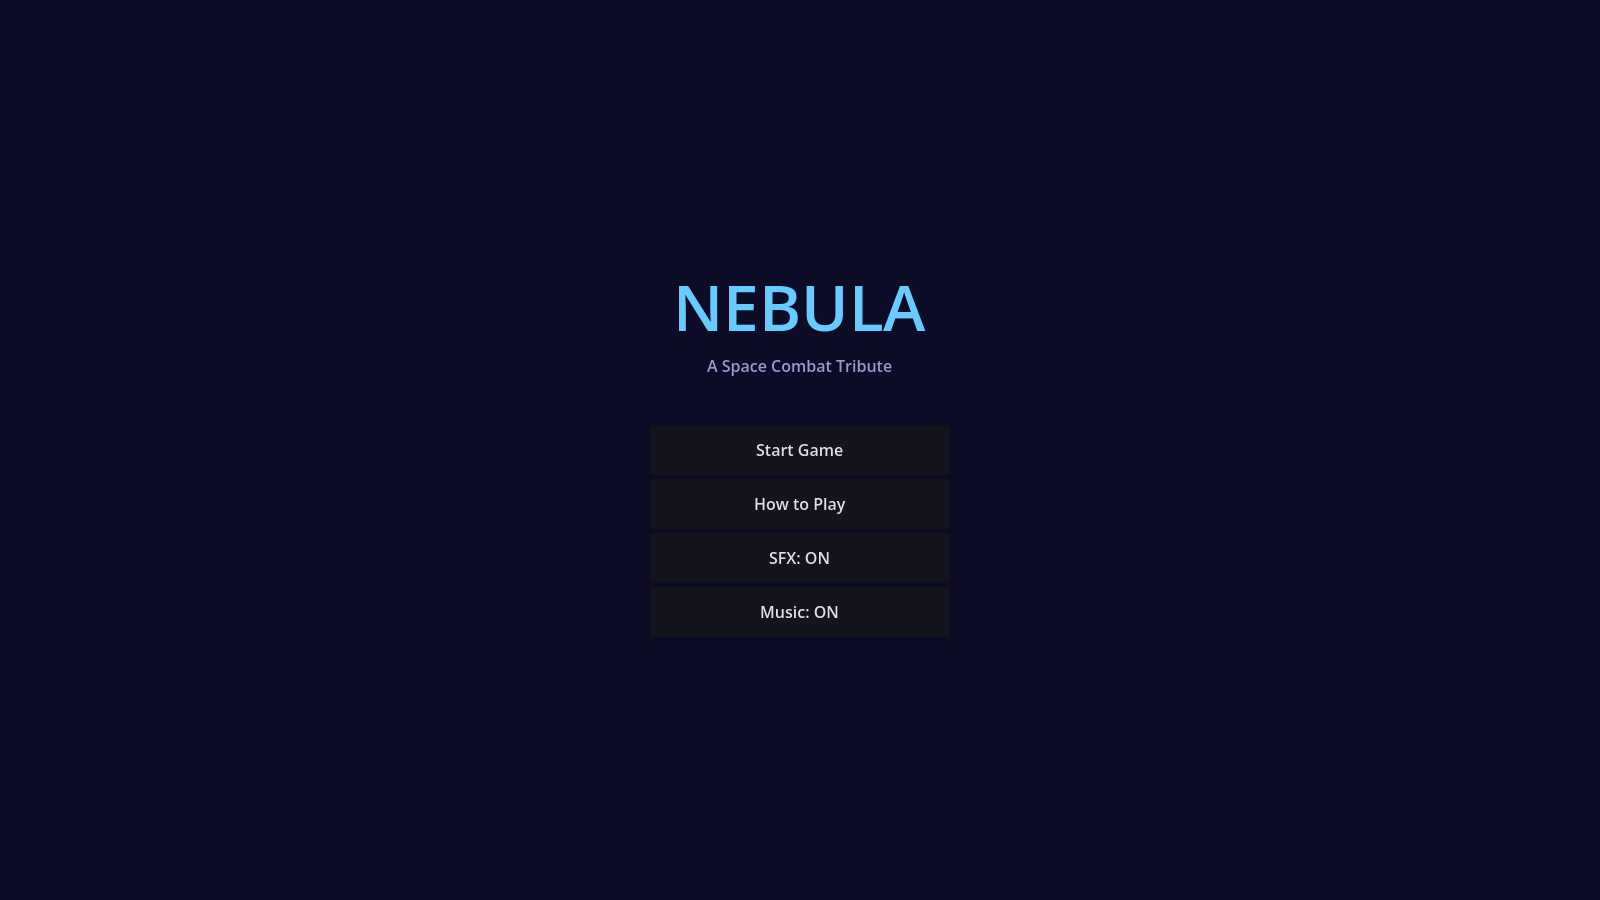
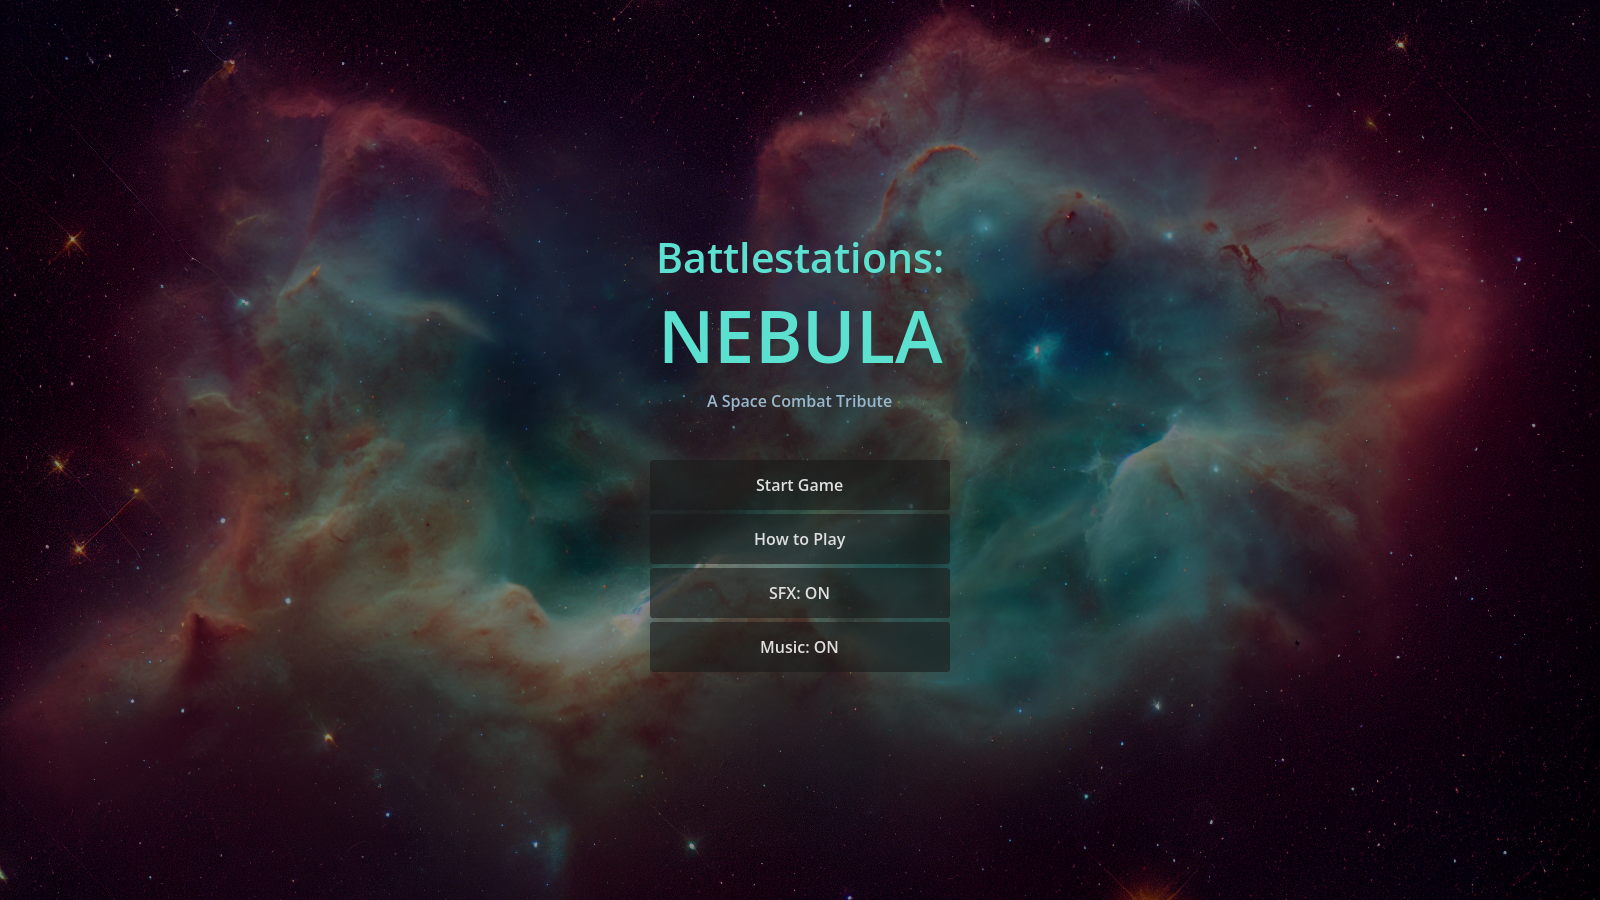
Complete step I3-7: Visual sanity pass and screenshot regen

diff --git a/docs/checklist.md b/docs/checklist.md
@@ -241,7 +241,7 @@ Source asset: `assets/backgrounds/nebula.jpg` (5333×3555, downloaded from Envat
   Acceptance: All scene files use the new palette. `docs/color-scheme.md` is rewritten and accurate. Game still readable in every scene. Hit/damage indicators still register as warnings.
   Verify: Run the game. Walk through every scene. Confirm the new palette feels intentional alongside the nebula (not arbitrarily swapped) and nothing reads as broken or invisible.
 
-- [ ] **I3-7. Visual sanity pass, tuning, and screenshot regeneration**
+- [x] **I3-7. Visual sanity pass, tuning, and screenshot regeneration**
   Spec ref: New — judgment call after the visual changes land
   What to build: Play through a full game with the nebula + new palette + two-line title + placement colors all in place. Identify and fix any of: (1) probe illumination overlay too subtle against the nebula — bump alpha or shift hue if needed, (2) grid lines invisible against bright nebula areas — bump line color brightness or alpha, (3) ship colors blending into nebula colors — adjust ship tint contrast, (4) blind hit / wreckage / ghost markers hard to read — adjust their colors or add an outline. Make minimal changes — the goal is to keep the nebula's visual impact while preserving gameplay clarity. After tuning, re-run the screenshot script (`godot --path . -- --screenshot`) to refresh `assets/screenshots/` with the new visuals. Spot-check a handful of regenerated PNGs against the descriptions in `docs/claude-cowork/screenshot-brief.md` to confirm they still match. If any drifted, fix the runner (`scripts/debug/screenshot_runner.gd`) per the CLAUDE.md "Edit the runner when..." note.
   Acceptance: All gameplay states (probe overlay, blind hit, wreckage, ghost markers, selected ship highlight) remain clearly readable over the nebula. Updated screenshots replace the old flat-background ones. The new title treatment is visible in `01_welcome.png` and `02_main_menu.png`.
